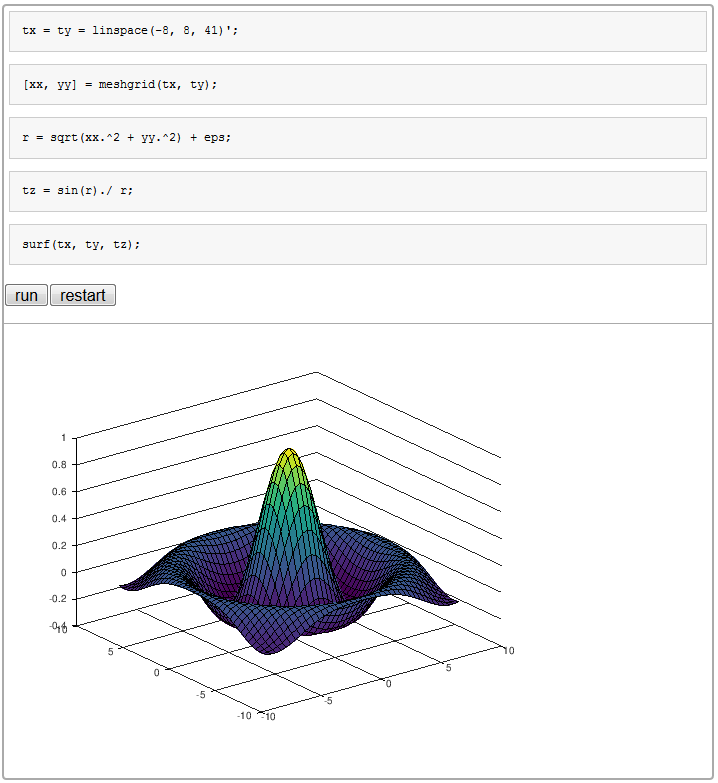
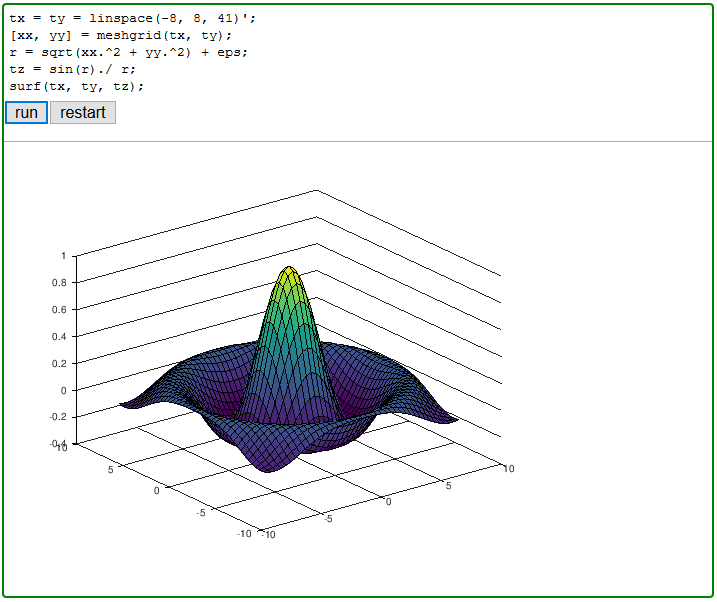
change screenshot of thebecell

diff --git a/_build/intro.md b/_build/intro.md
@@ -29,7 +29,7 @@ surf(tx, ty, tz);
 
 
 {:.output .output_png}
-![png](/mnt/d/documents/modellbildung-und-simulation/_build/intro_1_0.png)
+![png](intro_1_0.png)
 
 
 
